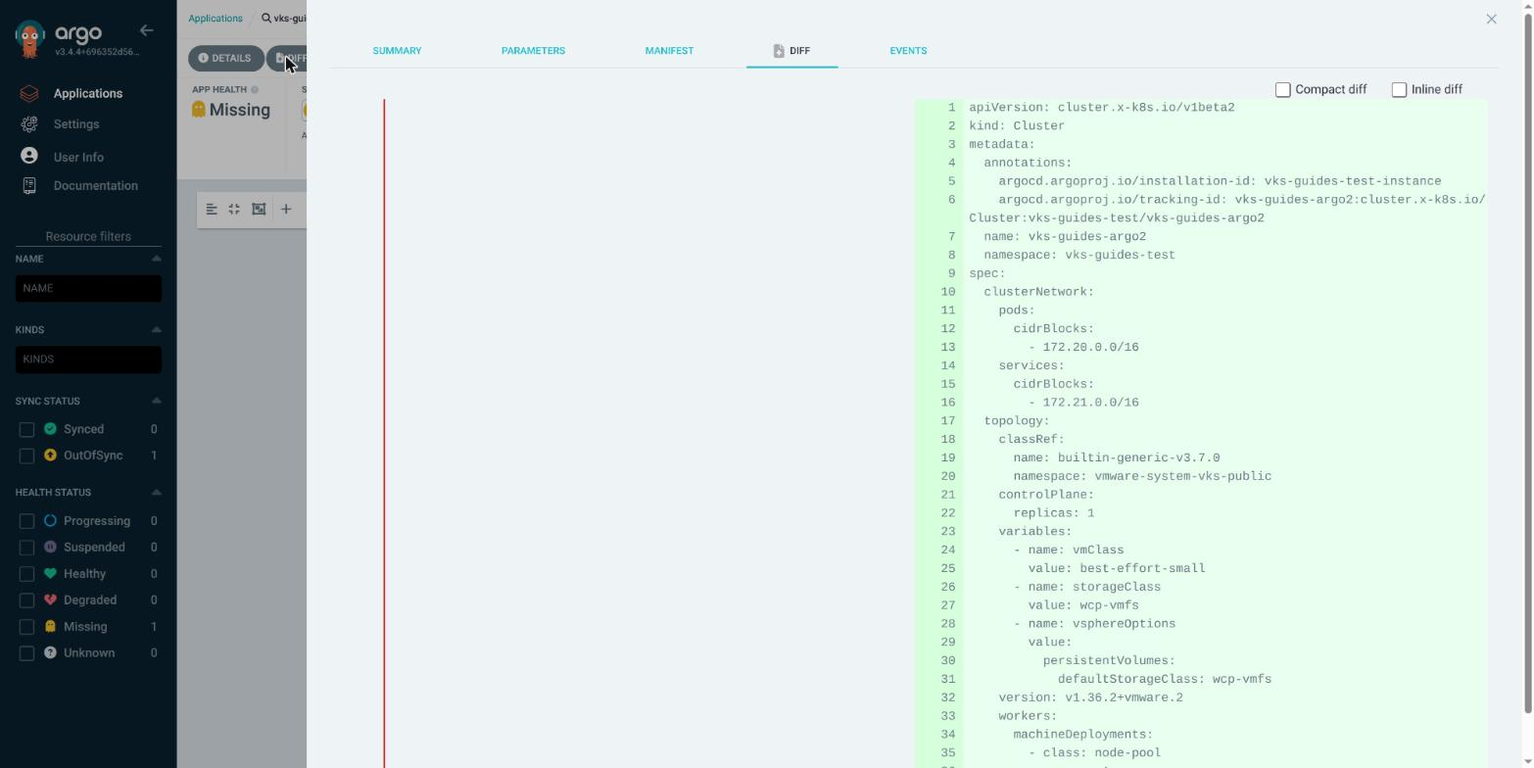
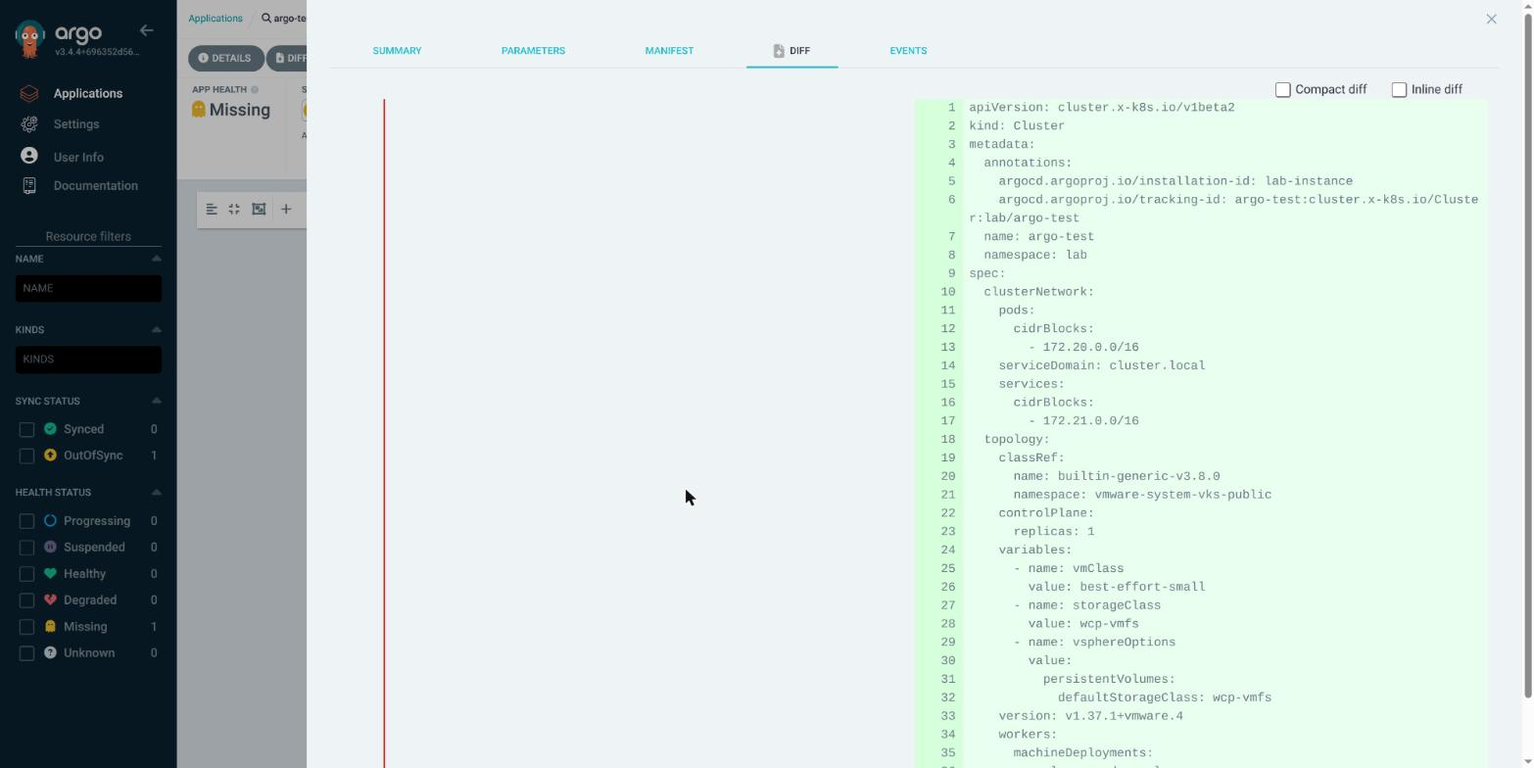
docs: guides retested on VKS 3.8 (names, 0200 plugins, Fluent Bit 5.1.2, Tekton uninstall) (#63)
* docs: VKS 3.8 names in CLUSTER, ARGOCD, KUBECTL; VCF.md takes the 0200 plugins

CLUSTER.md and ARGOCD.md name builtin-generic-v3.8.0 and the v1.37.1 release
the 3.8.0 Supervisor offers; KUBECTL.md's example is v1.37.1. VCF.md keeps the
9.1.1.0100 CLI and installs the 9.1.1.0200 plugin bundle (VKS plugins v3.8.0),
with one version variable per file. Measured on the Photon walkbox: install
picks v3.8.0, all plugins installed, none update needed; CLUSTER.md step 9
created cluster-md-test on VKS 3.8.0.

* fix: LOGGING and OBSERVABILITY install Fluent Bit add-on 5.1.2, the release VKS 3.8 offers

A VKS 3.8.0 Supervisor offers fluent-bit 5.0.5 and 5.1.2; the pinned 5.0.9 failed
with AddonRelease not found. Measured on cluster-md-test (Photon, v3.8.0 addon
plugin): OBSERVABILITY 1-8 with 5.1.2, metrics/logs/traces all arrive; step 12 +
LOGGING step 8 leave no fluent-bit AddonInstall or AddonConfig on the Supervisor.

* fix: TEKTON.md 7A waits for every TektonInstallerSet to go before deleting the add-on

On cluster-md-test (VKS 3.8.0, v3.8.0 addon plugin) the TektonPipeline's
pipeline-main-static installer set was still deleting when the add-on removed
the operator; its finalizer stayed, the HelmRelease uninstall took ~5 min, vcf
addon install delete timed out and the Supervisor AddonInstall stayed (the
controller does not requeue it). 7A now waits up to 5 minutes for zero
TektonInstallerSets. Rerun: install, demo Succeeded, 7A clean (CRDs left 0,
[…]

diff --git a/docs/CLUSTER.md b/docs/CLUSTER.md
@@ -7,10 +7,10 @@
 > - [Provision a Kubernetes Cluster Using Self-Service](https://techdocs.broadcom.com/us/en/vmware-cis/vcf/vcf-consumption/latest/managing-vsphere-kuberenetes-service-clusters-and-workloads/provision-and-manage-kubernetes-clusters/provision-a-kubernetes-cluster-using-the-iaas-services-console-in-vcf-automation.html)
 > - [Using Kubernetes Releases with VKS Clusters](https://techdocs.broadcom.com/us/en/vmware-cis/vcf/vcf-service-administration-and-development/9-1/managing-vsphere-kubernetes-service/administering-kubernetes-releases-for-tkg-service-clusters/using-kubernetes-releases-with-tkg-service-clusters.html)
 > - [Using VM Classes with VKS Clusters](https://techdocs.broadcom.com/us/en/vmware-cis/vcf/vcf-service-administration-and-development/9-1/managing-vsphere-kubernetes-service/configuring-vsphere-namespaces-for-hosting-tkg-service-clusters/using-vm-classes-with-tkg-service-clusters.html)
-> - [Using the Versioned ClusterClass](https://techdocs.broadcom.com/us/en/vmware-cis/vcf/vcf-consumption/latest/managing-vsphere-kuberenetes-service-clusters-and-workloads/provisioning-tkg-service-clusters/using-the-cluster-v1beta1-api/using-the-versioned-clusterclass.html) (`builtin-generic-v3.7.0`, the newest in VKS 3.7.2)
-> - [ClusterClass Variable Reference, VKS 3.7.0](https://developer.broadcom.com/xapis/vmware-vsphere-kubernetes-service/3.7.0/variable-docs.html) (`defaultStorageClass`; for `builtin-generic-v3.7.0`. [Other versions](https://developer.broadcom.com/xapis/vmware-vsphere-kubernetes-service/latest/) match other Cluster Classes)
+> - [Using the Versioned ClusterClass](https://techdocs.broadcom.com/us/en/vmware-cis/vcf/vcf-consumption/latest/managing-vsphere-kuberenetes-service-clusters-and-workloads/provisioning-tkg-service-clusters/using-the-cluster-v1beta1-api/using-the-versioned-clusterclass.html) (`builtin-generic-v3.8.0`, the newest in VKS 3.8.0)
+> - [ClusterClass Variable Reference, VKS 3.8.0](https://developer.broadcom.com/xapis/vmware-vsphere-kubernetes-service/3.8.0/variable-docs.html) (`defaultStorageClass`; for `builtin-generic-v3.8.0`. [Other versions](https://developer.broadcom.com/xapis/vmware-vsphere-kubernetes-service/latest/) match other Cluster Classes)
 > - [Workflow for Provisioning VKS Clusters Using kubectl](https://techdocs.broadcom.com/us/en/vmware-cis/vcf/vcf-consumption/latest/managing-vsphere-kuberenetes-service-clusters-and-workloads/provisioning-tkg-service-clusters/workflow-for-provisioning-tkg-clusters-using-kubectl.html) (step 9)
-> - [Using builtin-generic-v3.6.0 Cluster Class with VKS 3.6.0 and Later](https://techdocs.broadcom.com/us/en/vmware-cis/vcf/vcf-consumption/latest/managing-vsphere-kuberenetes-service-clusters-and-workloads/provisioning-tkg-service-clusters/using-the-cluster-v1beta1-api/using-the-versioned-clusterclass/using-builtin-generic-v3-6-0-with-vks.html) (step 9: Broadcom's `v1beta2` Cluster YAML; `builtin-generic-v3.7.0` takes the same fields)
+> - [Using builtin-generic-v3.6.0 Cluster Class with VKS 3.6.0 and Later](https://techdocs.broadcom.com/us/en/vmware-cis/vcf/vcf-consumption/latest/managing-vsphere-kuberenetes-service-clusters-and-workloads/provisioning-tkg-service-clusters/using-the-cluster-v1beta1-api/using-the-versioned-clusterclass/using-builtin-generic-v3-6-0-with-vks.html) (step 9: Broadcom's `v1beta2` Cluster YAML; `builtin-generic-v3.8.0` takes the same fields)
 > - [Check VKS Cluster Readiness Using Kubectl](https://techdocs.broadcom.com/us/en/vmware-cis/vcf/vcf-consumption/latest/managing-vsphere-kuberenetes-service-clusters-and-workloads/operating-tkg-service-clusters/check-tkg-cluster-readiness-using-kubectl.html)
 > - [Connect to the VKS Cluster Control Plane as a Kubernetes Administrator](https://techdocs.broadcom.com/us/en/vmware-cis/vcf/vcf-consumption/latest/managing-vsphere-kuberenetes-service-clusters-and-workloads/configuring-identity-and-access-for-tkg-service-clusters/connect-to-the-tkg-service-cluster-control-plane-as-a-kubernetes-administrator.html) (the kubeconfig)
 > - [Delete a VKS Cluster Using Kubectl or Using VCF CLI](https://techdocs.broadcom.com/us/en/vmware-cis/vcf/vcf-consumption/latest/managing-vsphere-kuberenetes-service-clusters-and-workloads/provisioning-tkg-service-clusters/delete-a-tkg-cluster-using-kubectl-or-using-the-tanzu-cli.html)
@@ -122,7 +122,7 @@ the Supervisor. Ask a vCenter administrator.
    ![Step 1 Configuration Type: Default Configuration selected, Custom Configuration, NEXT, and the Kubernetes Resource YAML pane](img/cluster/05-create-type.png)
 
 2. **2. General Settings:** replace the generated **Cluster Name** with your name. Choose the
-   newest **Cluster Class** the list offers (`builtin-generic-v3.7.0` with VKS 3.7.2) and your
+   newest **Cluster Class** the list offers and your
    **Kubernetes Release**. In the **VM Class** table, select your class with the round button:
    the page preselects one, which may not be the one you want. Choose your **Storage Class**.
 
@@ -520,8 +520,8 @@ if ($LASTEXITCODE -eq 0) {
 
 </details>
 
-**Expect:** one or more release names such as `v1.36.4---vmware.2-vkr.3`, a cluster class such as
-`builtin-generic-v3.7.0`, at least one VM class and at least one storage class.
+**Expect:** one or more release names such as `v1.37.1---vmware.4-vkr.1`, a cluster class such as
+`builtin-generic-v3.8.0`, at least one VM class and at least one storage class.
 
 **If not:** as in [Check the namespace](NAMESPACE.md#8-check-the-namespace).
 
@@ -545,9 +545,9 @@ spec:
     serviceDomain: cluster.local
   topology:
     classRef:
-      name: builtin-generic-v3.7.0      # <-- 3. the newest cluster class
+      name: builtin-generic-v3.8.0      # <-- 3. the newest cluster class
       namespace: vmware-system-vks-public
-    version: v1.36.4---vmware.2-vkr.3   # <-- 4. a Kubernetes release, usually the newest
+    version: v1.37.1---vmware.4-vkr.1   # <-- 4. a Kubernetes release, usually the newest
     controlPlane:
       replicas: 1                       # <-- 5. control-plane nodes: 1 or 3
     workers:
@@ -571,7 +571,7 @@ spec:
 | 1 | `metadata.name` | the cluster's name from step 2, never used before in this namespace |
 | 2 | `metadata.namespace` | your vSphere Namespace; the same as `VKS_NAMESPACE` in the block below |
 | 3 | `classRef.name` | the newest cluster class the block lists |
-| 4 | `version` | one name from the block's release list. The cluster stores it shortened: `v1.36.4---vmware.2-vkr.3` becomes `v1.36.4+vmware.2` |
+| 4 | `version` | one name from the block's release list. The cluster stores it shortened: `v1.37.1---vmware.4-vkr.1` becomes `v1.37.1+vmware.4` |
 | 5 | `controlPlane.replicas` | `1`, or `3` for a cluster that must stay up when a node fails |
 | 6 | `machineDeployments` `replicas` | the number of worker nodes |
 | 7 | `vmClass`, `storageClass`, `defaultStorageClass` | a VM class and a storage class from the block (see the table in step 2). `defaultStorageClass` is the class apps get when they do not name one |

diff --git a/docs/VCF.md b/docs/VCF.md
@@ -8,7 +8,7 @@
 > - [Installing the VCF CLI in Internet Restricted Environments](https://techdocs.broadcom.com/us/en/vmware-cis/vcf/vcf-consumption/latest/consumer-interfaces-in-vcf/installing-and-using-vcf-cli-v9/installing-the-vcf-cli-in-internet-connected-environments/installing-the-vcf-cli-in-internet-restricted-environments%282%29.html) (the download and the plugin bundle)
 
 `vcf` is VMware's command-line tool; you use it to [log in to the Supervisor](LOGIN.md). The
-plugin bundle adds its other commands (`vcf cluster`, `vcf package`, …). Download two files from
+plugin bundle adds its other commands (`vcf cluster`, `vcf addon`, …). Download two files from
 Broadcom, then run the install block; it needs no internet access.
 
 ## Download
@@ -22,20 +22,19 @@ Arm PC). On a machine without a browser, download them on another one and copy b
 | file | where to click | direct link |
 |---|---|---|
 | `VCF-Consumption-CLI-<platform>-9.1.1.0100.25746586.tar.gz` | [My Downloads](https://support.broadcom.com/group/ecx/downloads) → VMware vSphere Foundation → VMware vSphere Foundation 9 → 9.1.1.0100 → **VCF Consumption CLI** | [VCF CLI](https://support.broadcom.com/group/ecx/productfiles?displayGroup=VMware%20vSphere%20Foundation%209&release=9.1.1.0100&os=&servicePk=547810&language=EN&groupId=545612&viewGroup=true) |
-| `VCF-Consumption-CLI-PluginBundle-<platform>-9.1.1.0100.25793136.tar.gz` | [My Downloads](https://support.broadcom.com/group/ecx/downloads) → VMware vSphere Foundation → VMware vSphere Foundation 9 → 9.1.1.0100 → **VCF Consumption CLI Plugins** | [VCF CLI plugins](https://support.broadcom.com/group/ecx/productfiles?displayGroup=VMware%20vSphere%20Foundation%209&release=9.1.1.0100&os=&servicePk=548172&language=EN&groupId=545621&viewGroup=true) |
+| `VCF-Consumption-CLI-PluginBundle-<platform>-9.1.1.0200.25839222.tar.gz` | [My Downloads](https://support.broadcom.com/group/ecx/downloads) → VMware vSphere Foundation → VMware vSphere Foundation 9 → 9.1.1.0200 → **VCF Consumption CLI Plugins** | [VCF CLI plugins](https://support.broadcom.com/group/ecx/productfiles?displayGroup=VMware%20vSphere%20Foundation%209&release=9.1.1.0200&os=&servicePk=548172&language=EN&groupId=545621&viewGroup=true) |
 
 - With a VMware Cloud Foundation account, click VMware Cloud Foundation → VMware Cloud Foundation
-  9 → 9.1.1.0 instead. Until you pick the release, the page reads "No data found".
+  9 instead, then for each file the release whose file names match the table. Until you pick the
+  release, the page reads "No data found".
 - Tick **"I agree to the Terms and Conditions"**. The checkbox stays greyed out until you open
   both Terms links, and until it is ticked the download icon does nothing.
 - Take the row for your platform, not the files without one (`…-Binaries-…`, plain
   `…-PluginBundle-…`, `…-OCI-…`).
 - Copy the **SHA2** value of each file; the install block checks them.
-- Take the files whose names contain `9.1.1.0100.25746586` and `9.1.1.0100.25793136`, the names
-  the install block expects. The plugins page can open on a newer release: pick the release
-  whose file names match. Its VKS plugins (`cluster`, `package`, …) are v3.7.2, for VKS 3.7;
-  release 9.1.1.0200 has v3.8.0 ones, for VKS 3.8; `vcf context create`, `list` and `delete`
-  also work with them on VKS 3.7.
+- Take the files whose names contain `9.1.1.0100.25746586` (the CLI) and `9.1.1.0200.25839222`
+  (the plugins), the names the install block expects; the two come from different releases. The
+  plugins' VKS plugins (`addon`, `cluster`, …) are v3.8.0, for VKS 3.8.
 
 ## Install
 
@@ -52,9 +51,8 @@ VCF_CLI_SHA256=""
 VCF_PLUGINS_SHA256=""
 DOWNLOAD_DIR="$HOME/Downloads"
 INSTALL_DIR="/usr/local/bin"
-VCF_RELEASE="9.1.1.0100"
-VCF_CLI_BUILD="25746586"
-VCF_PLUGINS_BUILD="25793136"
+VCF_CLI_VERSION="9.1.1.0100.25746586"
+VCF_PLUGINS_VERSION="9.1.1.0200.25839222"
 
 case "$(uname -s)/$(uname -m)" in
   Linux/x86_64)  P=Linux_AMD64 ;;
@@ -63,8 +61,8 @@ case "$(uname -s)/$(uname -m)" in
   Darwin/x86_64) P=Darwin_AMD64 ;;
   *)             P=unsupported ;;
 esac
-CLI_TGZ="$DOWNLOAD_DIR/VCF-Consumption-CLI-${P}-${VCF_RELEASE}.${VCF_CLI_BUILD}.tar.gz"
-PLUGINS_TGZ="$DOWNLOAD_DIR/VCF-Consumption-CLI-PluginBundle-${P}-${VCF_RELEASE}.${VCF_PLUGINS_BUILD}.tar.gz"
+CLI_TGZ="$DOWNLOAD_DIR/VCF-Consumption-CLI-${P}-${VCF_CLI_VERSION}.tar.gz"
+PLUGINS_TGZ="$DOWNLOAD_DIR/VCF-Consumption-CLI-PluginBundle-${P}-${VCF_PLUGINS_VERSION}.tar.gz"
 CLI_SUM="$( (sha256sum "$CLI_TGZ" 2>/dev/null || shasum -a 256 "$CLI_TGZ" 2>/dev/null) | cut -d' ' -f1)"
 PLUGINS_SUM="$( (sha256sum "$PLUGINS_TGZ" 2>/dev/null || shasum -a 256 "$PLUGINS_TGZ" 2>/dev/null) | cut -d' ' -f1)"
 TMP="$(mktemp -d)"
@@ -110,14 +108,13 @@ $VCF_CLI_SHA256 = ""                     # SHA2 of the CLI file from the downloa
 $VCF_PLUGINS_SHA256 = ""                 # SHA2 of the plugin bundle from the download page
 $DOWNLOAD_DIR = "$HOME\Downloads"
 $INSTALL_DIR = "$env:LOCALAPPDATA\Programs\vks-tools"
-$VCF_RELEASE = "9.1.1.0100"
-$VCF_CLI_BUILD = "25746586"
-$VCF_PLUGINS_BUILD = "25793136"
+$VCF_CLI_VERSION = "9.1.1.0100.25746586"
+$VCF_PLUGINS_VERSION = "9.1.1.0200.25839222"
 
 $global:LASTEXITCODE = $null
 $P = if ($env:PROCESSOR_ARCHITECTURE -eq 'ARM64') { 'Windows_ARM64' } else { 'Windows_AMD64' }
-$CLI_ZIP = "$DOWNLOAD_DIR\VCF-Consumption-CLI-$P-$VCF_RELEASE.$VCF_CLI_BUILD.zip"
-$PLUGINS_ZIP = "$DOWNLOAD_DIR\VCF-Consumption-CLI-PluginBundle-$P-$VCF_RELEASE.$VCF_PLUGINS_BUILD.zip"
+$CLI_ZIP = "$DOWNLOAD_DIR\VCF-Consumption-CLI-$P-$VCF_CLI_VERSION.zip"
+$PLUGINS_ZIP = "$DOWNLOAD_DIR\VCF-Consumption-CLI-PluginBundle-$P-$VCF_PLUGINS_VERSION.zip"
 $CLI_SUM = if (Test-Path $CLI_ZIP) { (Get-FileHash -Algorithm SHA256 $CLI_ZIP).Hash.ToLower() }
 $PLUGINS_SUM = if (Test-Path $PLUGINS_ZIP) { (Get-FileHash -Algorithm SHA256 $PLUGINS_ZIP).Hash.ToLower() }
 $TMP = Join-Path $env:TEMP ([guid]::NewGuid()); New-Item -ItemType Directory -Path $TMP | Out-Null
@@ -162,8 +159,8 @@ Remove-Item -Recurse -Force $TMP
 </details>
 
 **Expect:** `checksums OK`, `Initialization done!` (first run only), `Installing plugin …` lines,
-`version: v9.1.1.0100.25746586`, then the plugins, each `installed`, and no `FAILED` or
-`WARNING` line.
+`version: v9.1.1.0100.25746586`, then the plugins, each `installed` (`addon`, `cluster`,
+`kubernetes-release`, `package` and `registry-secret` at `v3.8.0`), and no `FAILED` or `WARNING` line.
 
 **If not:**
 - `FAILED: not found: …`: the file is not in `DOWNLOAD_DIR`, or it is from another release

diff --git a/docs/TEKTON.md b/docs/TEKTON.md
@@ -1222,8 +1222,8 @@ outside `tekton-demo` exists, and stops otherwise. Run step 6 first.
 ### With the VKS add-on (A)
 
 This turns Pipelines and Triggers off and waits for them to go, removes the operator's webhook
-set while the operator still runs (it is left behind otherwise), then removes the add-on and its
-empty namespace.
+set while the operator still runs (it is left behind otherwise), waits up to 5 minutes for the
+operator's other sets to go, then removes the add-on and its empty namespace.
 
 <details>
 <summary><b>Linux, macOS, WSL (bash or zsh)</b></summary>
@@ -1268,9 +1268,15 @@ else
       printf '%s\n' "$W" | grep '/validating-mutating-webhook-' | while read -r R; do
         kubectl --kubeconfig "$VKS_KUBECONFIG" delete "$R" --timeout=2m </dev/null
       done
-      if ! W="$(kubectl --kubeconfig "$VKS_KUBECONFIG" get tektoninstallersets -o name)" \
-         || printf '%s\n' "$W" | grep -q '/validating-mutating-webhook-'; then
-        echo "FAILED: the operator's webhook set is still there (see the error above)"
+      for i in $(seq 60); do
+        W="$(kubectl --kubeconfig "$VKS_KUBECONFIG" get tektoninstallersets -o name)" || W="unknown"
+        if [ -z "$W" ]; then break; fi
+        sleep 5
+      done
+      if [ "$W" = unknown ]; then
+        echo "FAILED: cannot list the operator's sets (see the error above)"
+      elif [ -n "$W" ]; then
+        echo "FAILED: the operator's sets are still there after 5 minutes:" $W
       elif ! vcf addon install delete tekton-operator --cluster-name "$VKS_CLUSTER" -n "$VKS_NAMESPACE" -y; then
         echo "FAILED: the add-on (see the error above)"
       else
@@ -1338,9 +1344,16 @@ if ($LASTEXITCODE -ne 0) {
         foreach ($R in @($W | Where-Object { $_ -match '/validating-mutating-webhook-' })) {
           kubectl --kubeconfig $VKS_KUBECONFIG delete $R --timeout=2m
         }
-        $W = @(kubectl --kubeconfig $VKS_KUBECONFIG get tektoninstallersets -o name)
-        if ($LASTEXITCODE -ne 0 -or @($W | Where-Object { $_ -match '/validating-mutating-webhook-' }).Count -gt 0) {
-          "FAILED: the operator's webhook set is still there (see the error above)"
+        foreach ($i in 1..60) {
+          $W = @(kubectl --kubeconfig $VKS_KUBECONFIG get tektoninstallersets -o name)
+          if ($LASTEXITCODE -ne 0) { $W = @('unknown') }
+          if ($W.Count -eq 0) { break }
+          Start-Sleep -Seconds 5
+        }
+        if ("$W" -eq 'unknown') {
+          "FAILED: cannot list the operator's sets (see the error above)"
+        } elseif ($W.Count -gt 0) {
+          "FAILED: the operator's sets are still there after 5 minutes: $W"
         } else {
           vcf addon install delete tekton-operator --cluster-name $VKS_CLUSTER -n $VKS_NAMESPACE -y
           if ($LASTEXITCODE -ne 0) {
@@ -1376,6 +1389,8 @@ if ($LASTEXITCODE -ne 0) {
   kubeconfig> get <kind> -A`; delete them first if they are yours.
 - `STOPPED: the VCF CLI` under `Unable to read password from terminal` or `provide credentials`:
   [renew the Supervisor login](LOGIN.md#renew-the-supervisor-login), then run the block again.
+- `FAILED: the operator's sets are still there`: `kubectl --kubeconfig <the VKS kubeconfig> get
+  tektoninstallersets -o yaml` shows what holds them (`finalizers`); run the block again.
 - `Tekton CRDs left:` more than 0, or `FAILED: …`: see the error above it, and run the block
   again.
 - `STOPPED: cannot read the cluster` with no other error: `kubectl --kubeconfig <the VKS

diff --git a/docs/ARGOCD.md b/docs/ARGOCD.md
@@ -24,7 +24,7 @@ ArgoCD (an *instance*). In this guide ArgoCD creates a VKS cluster from the char
 Needs [kubectl](KUBECTL.md), `jq` and `openssl` ([Prerequisites](PREREQS.md)), a
 [Supervisor login](LOGIN.md) and a [vSphere Namespace](NAMESPACE.md) with the **Namespaces Edit**
 role for your SSO user. Steps 2 and 10 need a vCenter administrator. Written for ArgoCD Service
-1.2.0 on VCF 9.1.1 with VKS 3.7. The Supervisor must reach `github.com`, and the VKS cluster
+1.2.0 on VCF 9.1.1 with VKS 3.8. The Supervisor must reach `github.com`, and the VKS cluster
 `docker.io` (step 8).
 
 `ARGOCD_NAMESPACE` is the vSphere Namespace that runs ArgoCD, `VKS_NAMESPACE` the one that holds
@@ -520,8 +520,8 @@ if ($LASTEXITCODE -eq 0) {
 
 </details>
 
-**Expect:** under each heading at least one line, for example `v1.36.2+vmware.2`,
-`builtin-generic-v3.7.0`, `best-effort-small  2  4Gi …`, `wcp-vmfs`.
+**Expect:** under each heading at least one line, for example `v1.37.1+vmware.4`,
+`builtin-generic-v3.8.0`, `best-effort-small  2  4Gi …`, `wcp-vmfs`.
 
 **If not:** an empty list or `Forbidden`: run [Check the namespace](NAMESPACE.md#8-check-the-namespace).
 
@@ -568,8 +568,8 @@ SUPERVISOR_KUBECONFIG="$HOME/.kube/supervisor.kubeconfig"
 ARGOCD_NAMESPACE="my-namespace"
 VKS_NAMESPACE="my-namespace"
 VKS_CLUSTER="my-vks-cluster"
-K8S_VERSION="v1.36.2+vmware.2"
-CLUSTER_CLASS="builtin-generic-v3.7.0"
+K8S_VERSION="v1.37.1+vmware.4"
+CLUSTER_CLASS="builtin-generic-v3.8.0"
 VM_CLASS="best-effort-small"
 STORAGE_CLASS="wcp-vmfs"
 
@@ -584,7 +584,7 @@ spec:
   project: vks-clusters
   source:
     repoURL: https://github.com/AndriyKalashnykov/vks-guides.git
-    targetRevision: "173fba41691ffd7c0379443a6ca2fb014a3205d8"
+    targetRevision: "b0802ca479f40c5d11e13c7534fae8b92d1891a7"
     path: argocd/guest-cluster
     helm:
       valuesObject:
@@ -609,8 +609,8 @@ $SUPERVISOR_KUBECONFIG = "$HOME\.kube\supervisor.kubeconfig"
 $ARGOCD_NAMESPACE = "my-namespace"
 $VKS_NAMESPACE = "my-namespace"
 $VKS_CLUSTER = "my-vks-cluster"
-$K8S_VERSION = "v1.36.2+vmware.2"
-$CLUSTER_CLASS = "builtin-generic-v3.7.0"
+$K8S_VERSION = "v1.37.1+vmware.4"
+$CLUSTER_CLASS = "builtin-generic-v3.8.0"
 $VM_CLASS = "best-effort-small"
 $STORAGE_CLASS = "wcp-vmfs"
 
@@ -625,7 +625,7 @@ spec:
   project: vks-clusters
   source:
     repoURL: https://github.com/AndriyKalashnykov/vks-guides.git
-    targetRevision: "173fba41691ffd7c0379443a6ca2fb014a3205d8"
+    targetRevision: "b0802ca479f40c5d11e13c7534fae8b92d1891a7"
     path: argocd/guest-cluster
     helm:
       valuesObject:
@@ -664,7 +664,7 @@ Now look at it, then sync:
    sync; delete the Application in the ArgoCD page with **Non-cascading** and choose another
    name.
 
-   ![The DIFF tab: the left half empty, the right half in green with the Cluster: builtin-generic-v3.7.0, best-effort-small, wcp-vmfs and v1.36.2+vmware.2](img/argocd/07-diff.png)
+   ![The DIFF tab: the left half empty, the right half in green with the Cluster: serviceDomain cluster.local, builtin-generic-v3.8.0, best-effort-small, wcp-vmfs and v1.37.1+vmware.4](img/argocd/07-diff.png)
 
 2. Close it, click **SYNC**, then **SYNCHRONIZE**.
 

diff --git a/README.md b/README.md
@@ -71,8 +71,31 @@ for `kubectl`, [Install kubectl](docs/KUBECTL.md); for `vcf`, [Install the VCF C
 
 ## Tested on
 
-Run against VCF 9.1.1 (vSphere 9.1.1 Supervisor, VKS 3.7.2) from Linux and Windows on amd64 and
-macOS on Apple silicon. ✅ every block run, "part" some blocks run, — not run.
+✅ every block run, "part" some blocks run, — not run.
+
+On VCF 9.1.1 with VKS 3.8.0 (Kubernetes v1.37.1):
+
+| guide | Ubuntu (bash, zsh) | Windows PowerShell 5.1 | Photon OS 5 (bash) |
+|---|---|---|---|
+| [Install kubectl](docs/KUBECTL.md) | — | — | part |
+| [Install the VCF CLI](docs/VCF.md) | part | part | part |
+| [Log in](docs/LOGIN.md) | part | part | part |
+| [Create a vSphere Namespace](docs/NAMESPACE.md) | — | — | — |
+| [Create a VKS cluster](docs/CLUSTER.md) | — | — | part |
+| [Install Harbor](docs/HARBOR.md) | part | — | — |
+| [ArgoCD](docs/ARGOCD.md) | part | part | part |
+| [Run Gitea](docs/GITEA.md) | part | part | part |
+| [Run Tekton](docs/TEKTON.md) | part | part | ✅ |
+| [Run GitLab](docs/GITLAB.md) | part | — | — |
+| [CI/CD with Gitea and Tekton](docs/CICD.md) | part | — | — |
+| [CI/CD with GitLab](docs/CICD.md) | part | — | — |
+| [Install Helm](docs/HELM.md) | — | — | ✅ |
+| [Monitor a VKS cluster](docs/MONITORING.md) | — | — | part |
+| [Send logs to VCF Operations](docs/LOGGING.md) | — | part | part |
+| [Logs and traces in Grafana](docs/OBSERVABILITY.md) | — | — | part |
+
+Earlier versions of these guides, on VCF 9.1.1 with VKS 3.7.2, from Linux and Windows on amd64 and
+macOS on Apple silicon:
 
 | guide | Ubuntu (bash, zsh) | macOS 26 (bash, zsh) | Windows PowerShell 5.1 | WSL 2 Ubuntu (bash, as root) | Photon OS 5 (bash) |
 |---|---|---|---|---|---|

diff --git a/docs/KUBECTL.md b/docs/KUBECTL.md
@@ -19,7 +19,7 @@ when this machine cannot reach dl.k8s.io. After you log in,
 Downloads the official binary, checks its SHA-256 and installs it into `INSTALL_DIR`. When that
 directory needs `sudo` and `sudo` would ask for a password, it installs into `~/.local/bin`
 instead (see [Prerequisites](PREREQS.md#sudo-optional)). Leave `KUBECTL_VERSION` empty for the
-latest stable release, or set one such as `v1.36.2`.
+latest stable release, or set one such as `v1.37.1`.
 
 <details>
 <summary><b>Linux, macOS, WSL (bash or zsh)</b></summary>
@@ -63,7 +63,7 @@ fi; rm -rf "$TMP"
 <summary><b>Windows (PowerShell)</b></summary>
 
 ```powershell
-$KUBECTL_VERSION = ""                    # empty = latest stable; or e.g. v1.36.2
+$KUBECTL_VERSION = ""                    # empty = latest stable; or e.g. v1.37.1
 $INSTALL_DIR = "$env:LOCALAPPDATA\Programs\vks-tools"
 
 $global:LASTEXITCODE = $null
@@ -108,7 +108,7 @@ Remove-Item -Recurse -Force $TMP
 - `FAILED: unsupported …, or dl.k8s.io unreachable`: there is no build for this OS/CPU, or this
   machine cannot reach dl.k8s.io. Use [From the Supervisor](#from-the-supervisor-dlk8sio-blocked).
 - `FAILED: download …` with a version you set: check that it starts with `v` and that the patch
-  exists. [stable-1.36.txt](https://dl.k8s.io/release/stable-1.36.txt) names the newest 1.36 patch;
+  exists. [stable-1.37.txt](https://dl.k8s.io/release/stable-1.37.txt) names the newest 1.37 patch;
   for another minor, change the number in the link.
 - `FAILED: checksum mismatch …`: the download arrived damaged. Run the block again.
 - `note: … added to PATH for this terminal only`: make it permanent with

diff --git a/docs/OBSERVABILITY.md b/docs/OBSERVABILITY.md
@@ -522,7 +522,7 @@ otherwise leave it empty. Set `FLUENT_BIT_RELEASE` as in LOGGING.md step 1.
 ```sh
 VKS_NAMESPACE="my-namespace"
 VKS_CLUSTER="my-vks-cluster"
-FLUENT_BIT_RELEASE="fluent-bit.kubernetes.vmware.com.5.0.9-vmware.1-vks.1"
+FLUENT_BIT_RELEASE="fluent-bit.kubernetes.vmware.com.5.1.2-vmware.1-vks.1"
 LOGS_FQDN=""
 VKS_KUBECONFIG="$HOME/.kube/${VKS_CLUSTER}.kubeconfig"
 OBSERVABILITY_DIR="$HOME/.config/vks-guides/observability"
@@ -606,7 +606,7 @@ fi
 ```powershell
 $VKS_NAMESPACE = "my-namespace"
 $VKS_CLUSTER = "my-vks-cluster"
-$FLUENT_BIT_RELEASE = "fluent-bit.kubernetes.vmware.com.5.0.9-vmware.1-vks.1"
+$FLUENT_BIT_RELEASE = "fluent-bit.kubernetes.vmware.com.5.1.2-vmware.1-vks.1"
 $LOGS_FQDN = ""
 $VKS_KUBECONFIG = "$HOME\.kube\${VKS_CLUSTER}.kubeconfig"
 $OBSERVABILITY_DIR = "$HOME\.config\vks-guides\observability"

diff --git a/docs/LOGGING.md b/docs/LOGGING.md
@@ -219,7 +219,7 @@ Set `FLUENT_BIT_RELEASE` to the release name from step 1.
 ```sh
 VKS_NAMESPACE="my-namespace"
 VKS_CLUSTER="my-vks-cluster"
-FLUENT_BIT_RELEASE="fluent-bit.kubernetes.vmware.com.5.0.9-vmware.1-vks.1"
+FLUENT_BIT_RELEASE="fluent-bit.kubernetes.vmware.com.5.1.2-vmware.1-vks.1"
 LOGGING_DIR="$HOME/.config/vks-guides/logging"
 
 vcf context use supervisor </dev/null
@@ -232,7 +232,7 @@ vcf addon install create fluent-bit --cluster-name "$VKS_CLUSTER" -n "$VKS_NAMES
 ```powershell
 $VKS_NAMESPACE = "my-namespace"
 $VKS_CLUSTER = "my-vks-cluster"
-$FLUENT_BIT_RELEASE = "fluent-bit.kubernetes.vmware.com.5.0.9-vmware.1-vks.1"
+$FLUENT_BIT_RELEASE = "fluent-bit.kubernetes.vmware.com.5.1.2-vmware.1-vks.1"
 $LOGGING_DIR = "$HOME\.config\vks-guides\logging"
 
 $null | vcf context use supervisor
